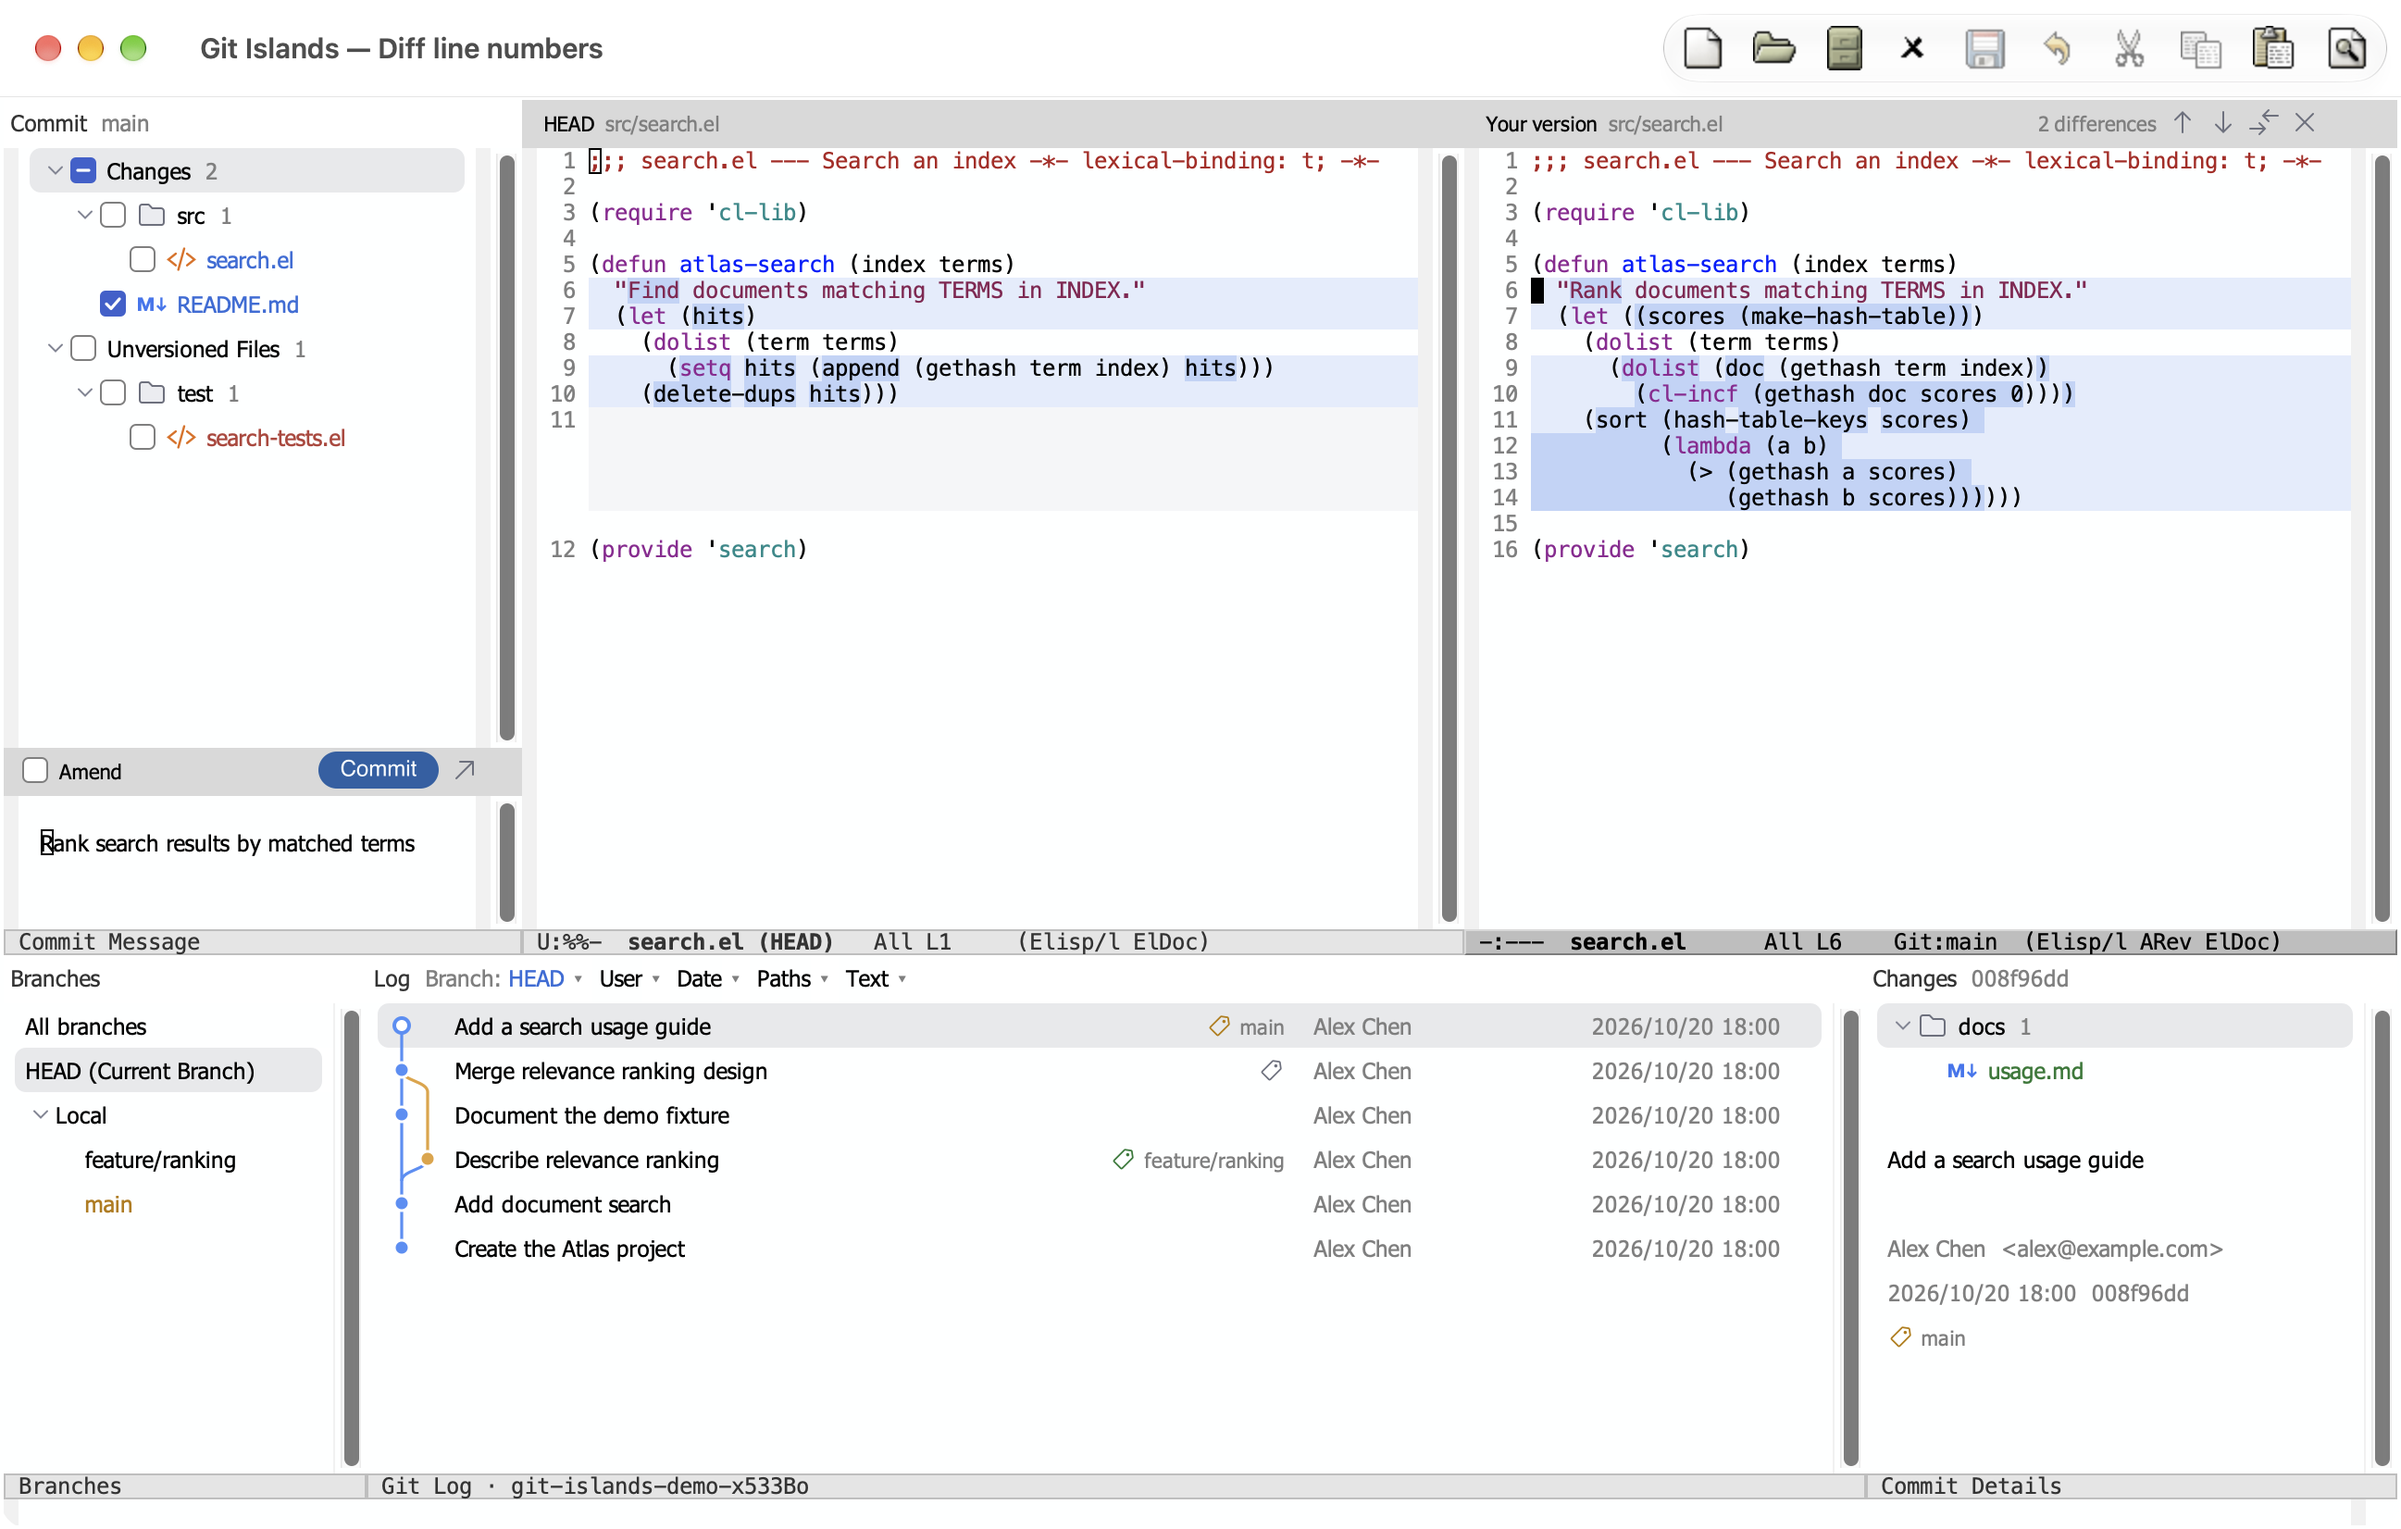
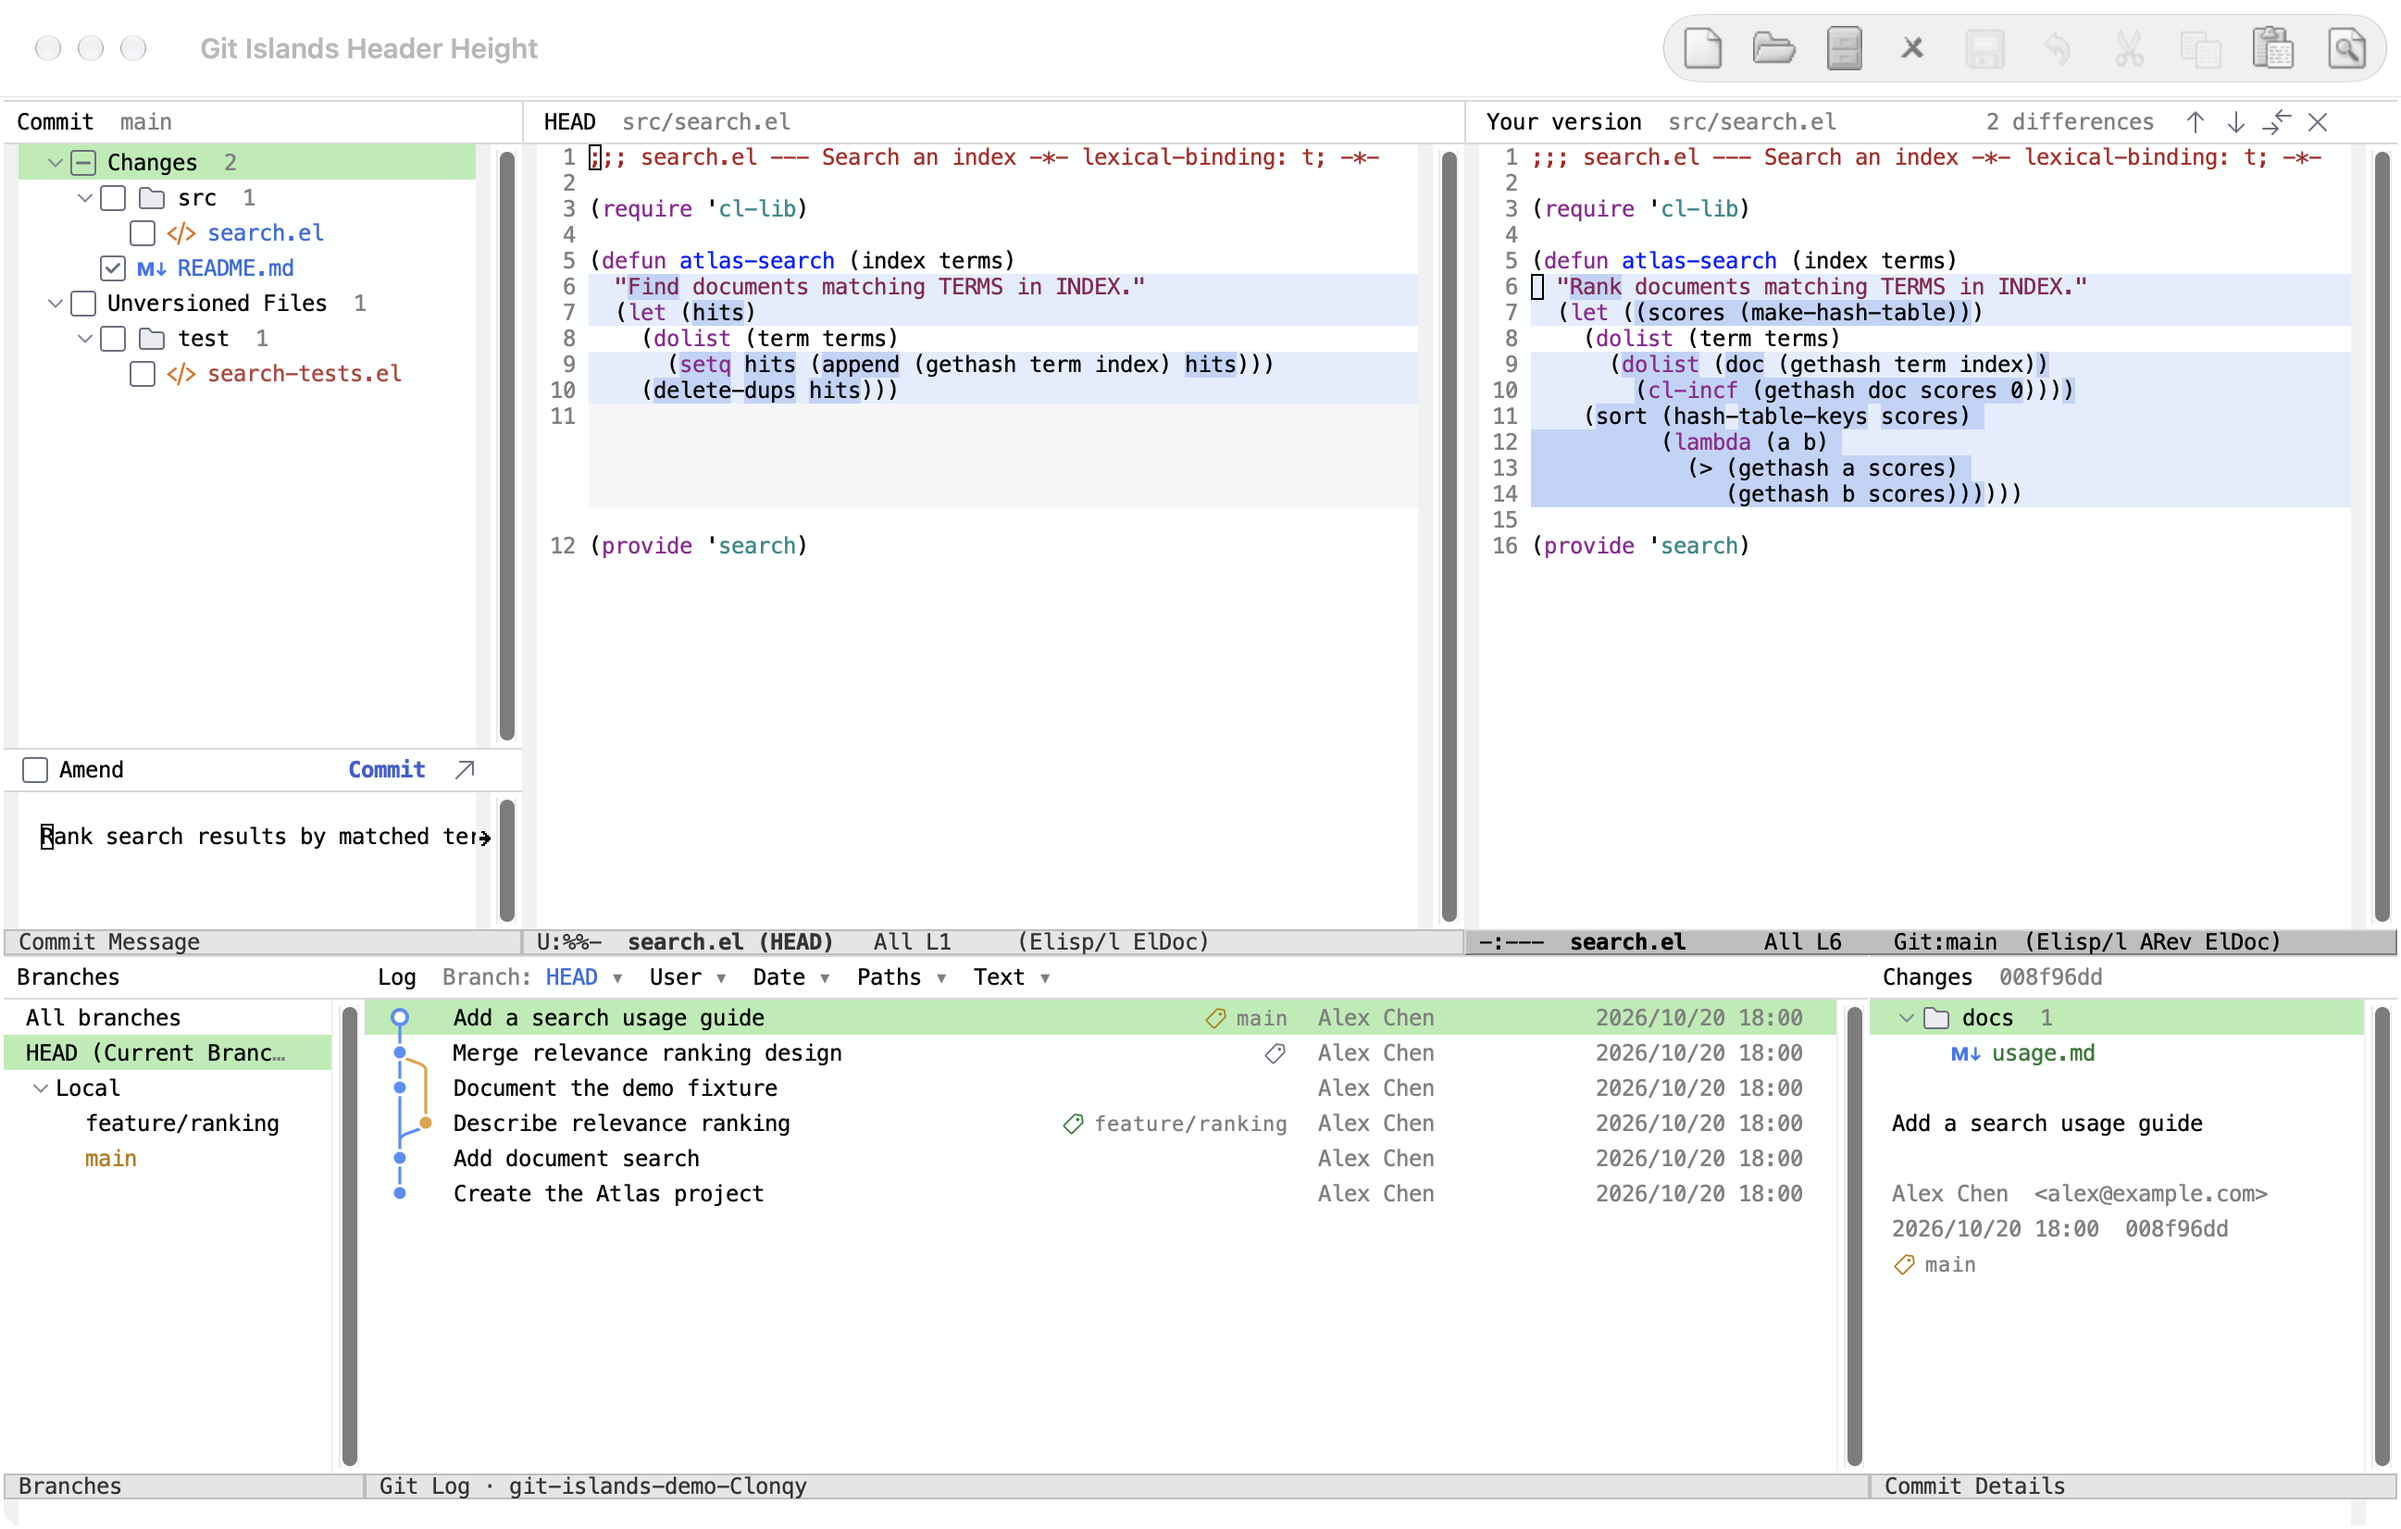
Simplify default styling and unify configurable pane headers

diff --git a/README.zh-CN.md b/README.zh-CN.md
@@ -191,6 +191,27 @@ Diff 源码缓冲区保留自身的 mode line。
 Diff 配色单独定义在 `git-islands-diff.el`，还包括 `git-islands-diff-modified`、
 `git-islands-diff-word` 和 `git-islands-diff-filler`。
 
+默认外观继承编辑器字体和选中行 face，使用直角选中背景与文字操作按钮。
+Commit 和 Log 不再显示刷新、隐藏图标，仍可使用 `g` 和 `q`；Log 的 `C`
+仍用于清除筛选。
+
+需要圆角选中行时，在 `git-islands-ui` 加载后设置 `git-islands-hl-radius`
+和 `git-islands-hl-margin`，并让 `git-islands-row-inset` 至少等于两者之和。
+需要圆角按钮时，在 `git-islands-tree` 加载后将
+`git-islands-button-render-function` 设为 `git-islands-button-rounded`，通过
+`git-islands-button-radius`（nil 表示胶囊）、`git-islands-button-padding`
+和按钮 face 调整外观。自定义渲染函数接收 `(label primary)` 并返回显示字符串，
+库统一添加点击、悬停和提示行为。默认渲染函数为 `git-islands-button-text`。
+下面的示例演示如何显式启用装饰样式。
+
+所有窗格的表头统一使用 `git-islands-header` 设置背景与字体。
+表头用一像素内嵌 `:box` 标记实际边缘，可修改颜色或设为 nil 隐藏。
+高度按表头字体计算，并为图标和圆角按钮留出空间。
+`git-islands-header-padding` 控制内容上下的最小留白。`git-islands-header-ascent` 默认 nil，
+自动计算文字的垂直居中；已有配置中的百分比数值仍然有效。
+`git-islands-ui-font` 只应设置字体属性；让行内文字继承 `default` 会连同背景一起继承，
+覆盖表头本身的背景。
+
 [examples/style.el](examples/style.el) 将以上设置组合为可选的独立示例。
 在主题之后执行 `(load "/path/to/git-islands/examples/style.el")` 即可加载。
 它演示库本身的样式设置；题图还使用了编辑器全局的个人样式。

diff --git a/README.md b/README.md
@@ -209,6 +209,29 @@ File status colors (`git-islands-modified`, `git-islands-added`,
 including `git-islands-diff-modified`, `git-islands-diff-word` and
 `git-islands-diff-filler`.
 
+Defaults inherit the editor font and selection faces, with square selections
+and text action buttons. Commit and Log omit refresh and hide icons; use `g`
+and `q`. Log's `C` still clears filters.
+
+For rounded selections, set `git-islands-hl-radius` and
+`git-islands-hl-margin` after loading `git-islands-ui`. Keep
+`git-islands-row-inset` at least their sum. For rounded buttons, set
+`git-islands-button-render-function` to `git-islands-button-rounded` after
+loading `git-islands-tree`; customize `git-islands-button-radius` (nil means
+pill-shaped), `git-islands-button-padding`, and the button faces.
+A custom renderer takes `(label primary)` and returns a display string;
+Git Islands adds click handling, hover and help text. The default renderer is
+`git-islands-button-text`. See the example below for an opt-in styled setup.
+
+Header backgrounds and typography use `git-islands-header` across all panes.
+The header uses a one-pixel inset `:box` at its actual edges; customize its
+color or set it to nil to hide it. Height is measured from the header font,
+with room for icons and rounded buttons. `git-islands-header-padding` controls
+the minimum padding above and below content. `git-islands-header-ascent` defaults to nil for automatic
+vertical centering; explicit percentages remain supported.
+Keep `git-islands-ui-font` limited to font attributes: inheriting `default`
+on inline text also imports its background, covering the header beneath it.
+
 [examples/style.el](examples/style.el) combines these settings into an optional,
 standalone file. Load it after your theme with
 `(load "/path/to/git-islands/examples/style.el")`. It illustrates package styling;
